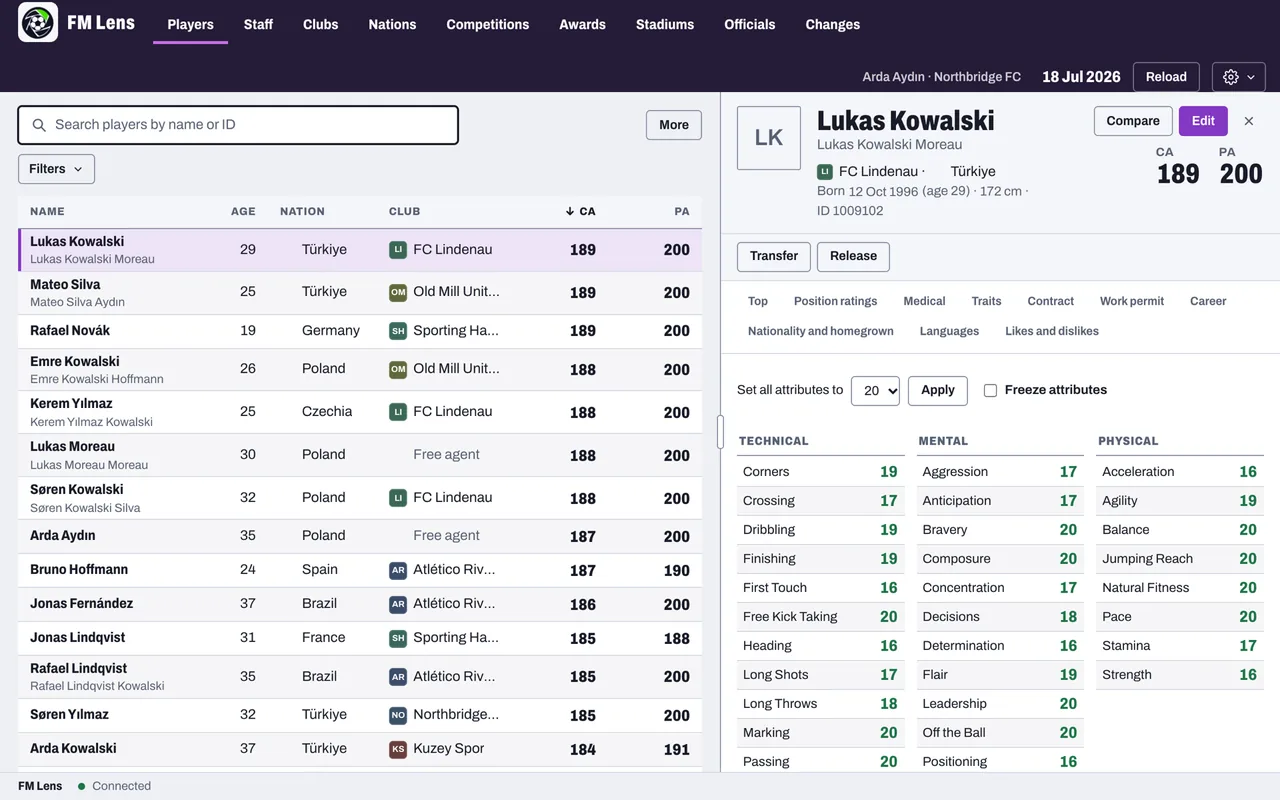
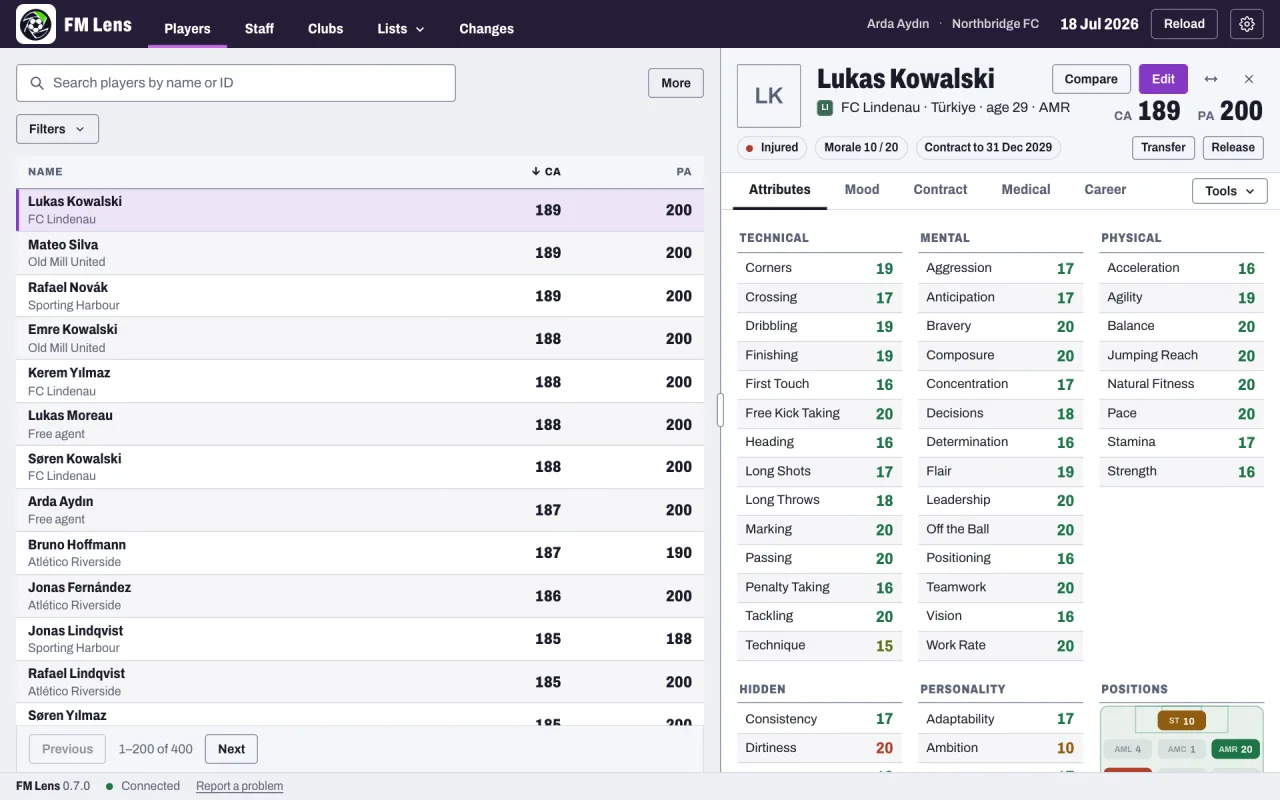
feat(site): Show the current app and its features
The screenshot and link preview still showed the app from 6 Nov, with
the old profile tabs and settings menu. Replace them with captures of
the current app from sample data.

Rewrite What it does for 0.7.0: real transfers, squad and game actions,
promises and unhappiness, freezes that hold, and Undo only where FM
allows it, since transfers are now permanent.

diff --git a/site/index.html b/site/index.html
@@ -80,24 +80,39 @@
       <dl class="features">
         <div>
           <dt>Find anyone</dt>
-          <dd>Search and filter players, staff and clubs. Browse nations, stadiums and officials too.</dd>
+          <dd>Search and filter players, staff and clubs, plus competitions, awards, officials, nations and stadiums.</dd>
         </div>
         <div>
           <dt>Edit your save</dt>
-          <dd>Attributes, CA and PA, positions, traits, personality and contracts, plus club finances and
-            facilities.</dd>
+          <dd>Attributes, CA and PA, positions, traits, personality and contracts, plus club money and facilities.</dd>
         </div>
         <div>
-          <dt>Undo any change</dt>
-          <dd>Edits go into FM when you press Apply. Changes lists each one, ready to undo.</dd>
+          <dt>Real transfers</dt>
+          <dd>Transfer, swap or release players through FM itself, with fees and transfer history.</dd>
+        </div>
+        <div>
+          <dt>Squad actions</dt>
+          <dd>Heal, lift bans, refresh fitness, and max morale, cohesion and tactics for the whole team.</dd>
+        </div>
+        <div>
+          <dt>Game actions</dt>
+          <dd>Add injuries, start and end loans, sign free agents and request work permits, all done by FM.</dd>
+        </div>
+        <div>
+          <dt>Keep players happy</dt>
+          <dd>See and close promises, and clear reasons for unhappiness, named as FM names them.</dd>
+        </div>
+        <div>
+          <dt>Freezes that hold</dt>
+          <dd>Fix a player's attributes or your club's money, even through long holidays.</dd>
         </div>
         <div>
           <dt>Templates</dt>
           <dd>Copy a player's profile onto others, with a preview first.</dd>
         </div>
         <div>
-          <dt>Squad actions</dt>
-          <dd>Heal injuries, lift bans, refresh fitness and sharpness, or freeze a player's attributes.</dd>
+          <dt>Review every change</dt>
+          <dd>Edits go into FM when you press Apply. Changes lists each one, with Undo where FM allows it.</dd>
         </div>
         <div>
           <dt>Out of your way</dt>
